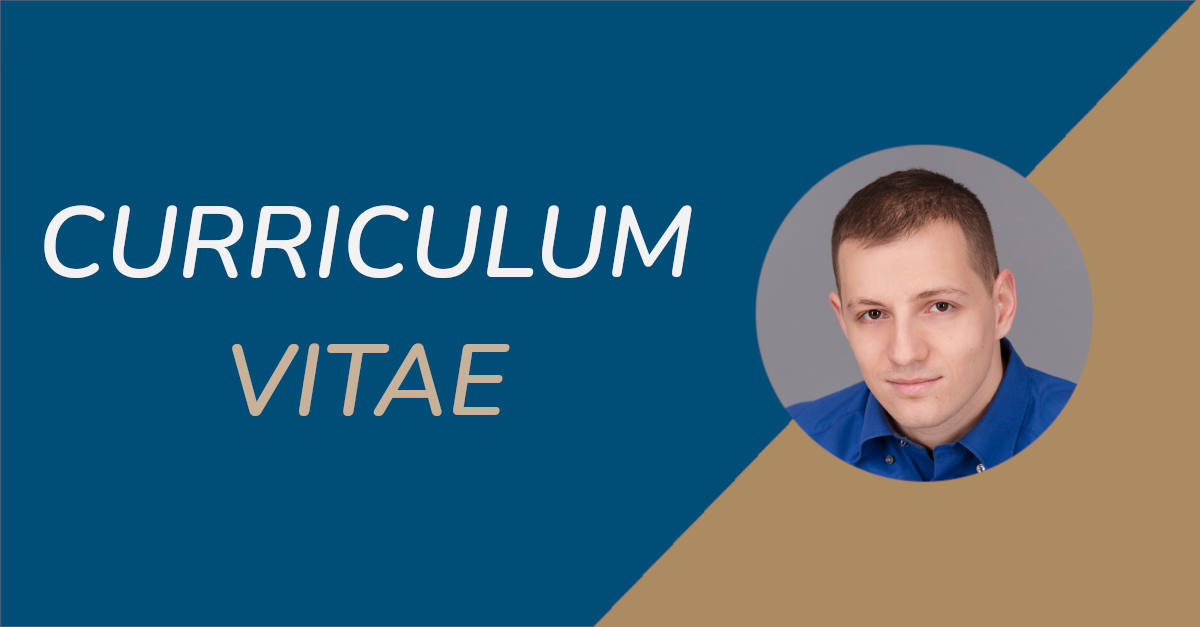
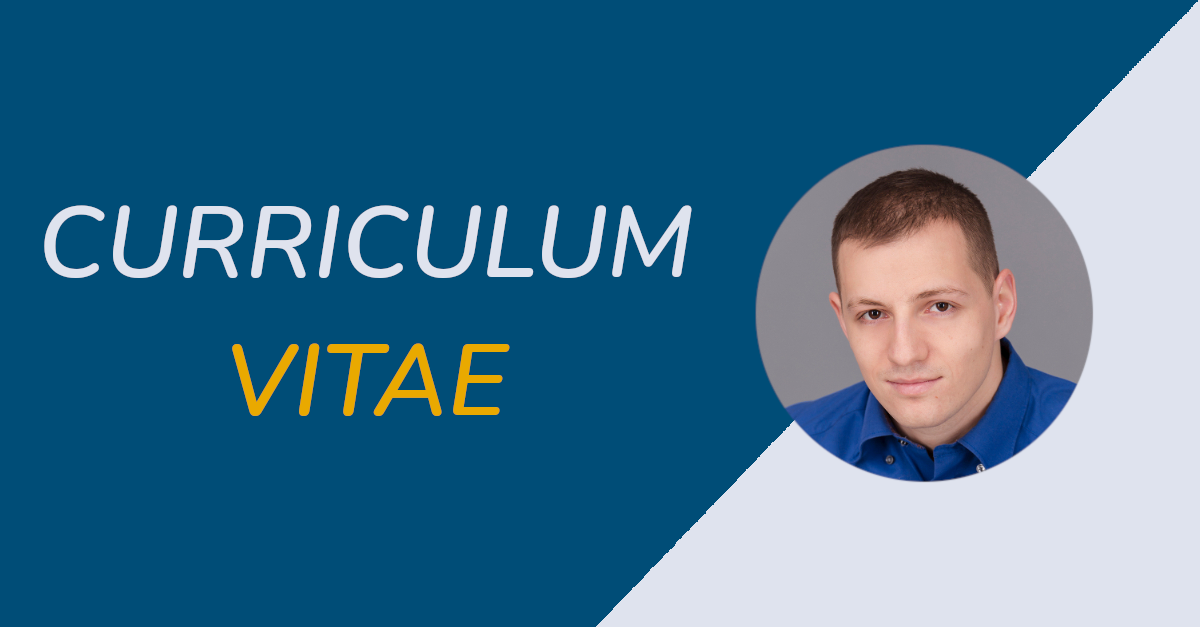
colorchange

Changed region(s): [[0.4933, 0.0, 1.0, 1.0], [0.185, 0.5455, 0.4317, 0.6667]]

diff --git a/colors.css b/colors.css
@@ -1,0 +1,73 @@
+:root {
+    font-size: 16px;
+    font-family: 'Arial';
+    --text-primary: #b6b6b6;
+    --text-secondary: #ececec;
+    --bg-primary: #1d1e2c;
+    --bg-secondary: #141418;
+    --text-hover: #c43f3a; 
+    --transition-speed: 400ms;
+}
+
+
+/* Black - grey - red color scheme */
+
+:root {
+    font-size: 18px;
+    font-family: 'Nunito', sans-serif;
+    --text-primary: #b6b6b6;
+    --text-secondary: #ececec;
+    --bg-primary: #181818;
+    --bg-secondary:#202020;
+    --text-hover: #c43f3a; 
+    --accent-color: #48ce9b;
+    --transition-speed: 400ms;
+    --lightgray: #b1b1b1;
+}
+
+/* Green - blue(?) - white scheme */
+
+:root {
+    font-size: 18px;
+    font-family: 'Nunito', sans-serif;
+    --text-primary: #3a7c8a;
+/*     --text-primary: #3aafa9; */
+    --text-secondary:  #F0F6F7FF;
+    --bg-primary: #2BAE66FF;
+    --bg-secondary: #F0F6F7FF;
+    --text-hover: #464d4e; 
+    --transition-speed: 400ms;
+    --lightgray: #b1b1b1;
+}
+
+/* My livingroom color scheme -- It needs some work */
+
+:root {
+    font-size: 18px;
+    font-family: 'Nunito', sans-serif;
+    --text-primary: #F2F2F2;
+    --text-secondary: #c7b299;
+    --bg-primary: #004D77;
+    --bg-secondary:#C7B299;
+    --text-hover: #F2F2F2; 
+    --text-shadow: #ad8b62;
+    --transition-speed: 400ms;
+    --lightgray: #b1b1b1;
+    --pr-bar: #004D77;
+}
+
+/* Torquise accent color scheme */
+
+:root {
+    font-size: 18px;
+    font-family: 'Nunito', sans-serif;
+    --text-primary: #1d6891;
+    --text-secondary: #dfe3ee;
+    --bg-primary: #004D77;
+    --bg-secondary:#dfe3ee;
+    --text-hover: #3acbbd; 
+    --text-shadow: none;
+    --transition-speed: 400ms;
+    --lightgray: #b1b1b1;
+    --pr-bar: #3acbbd;
+}
